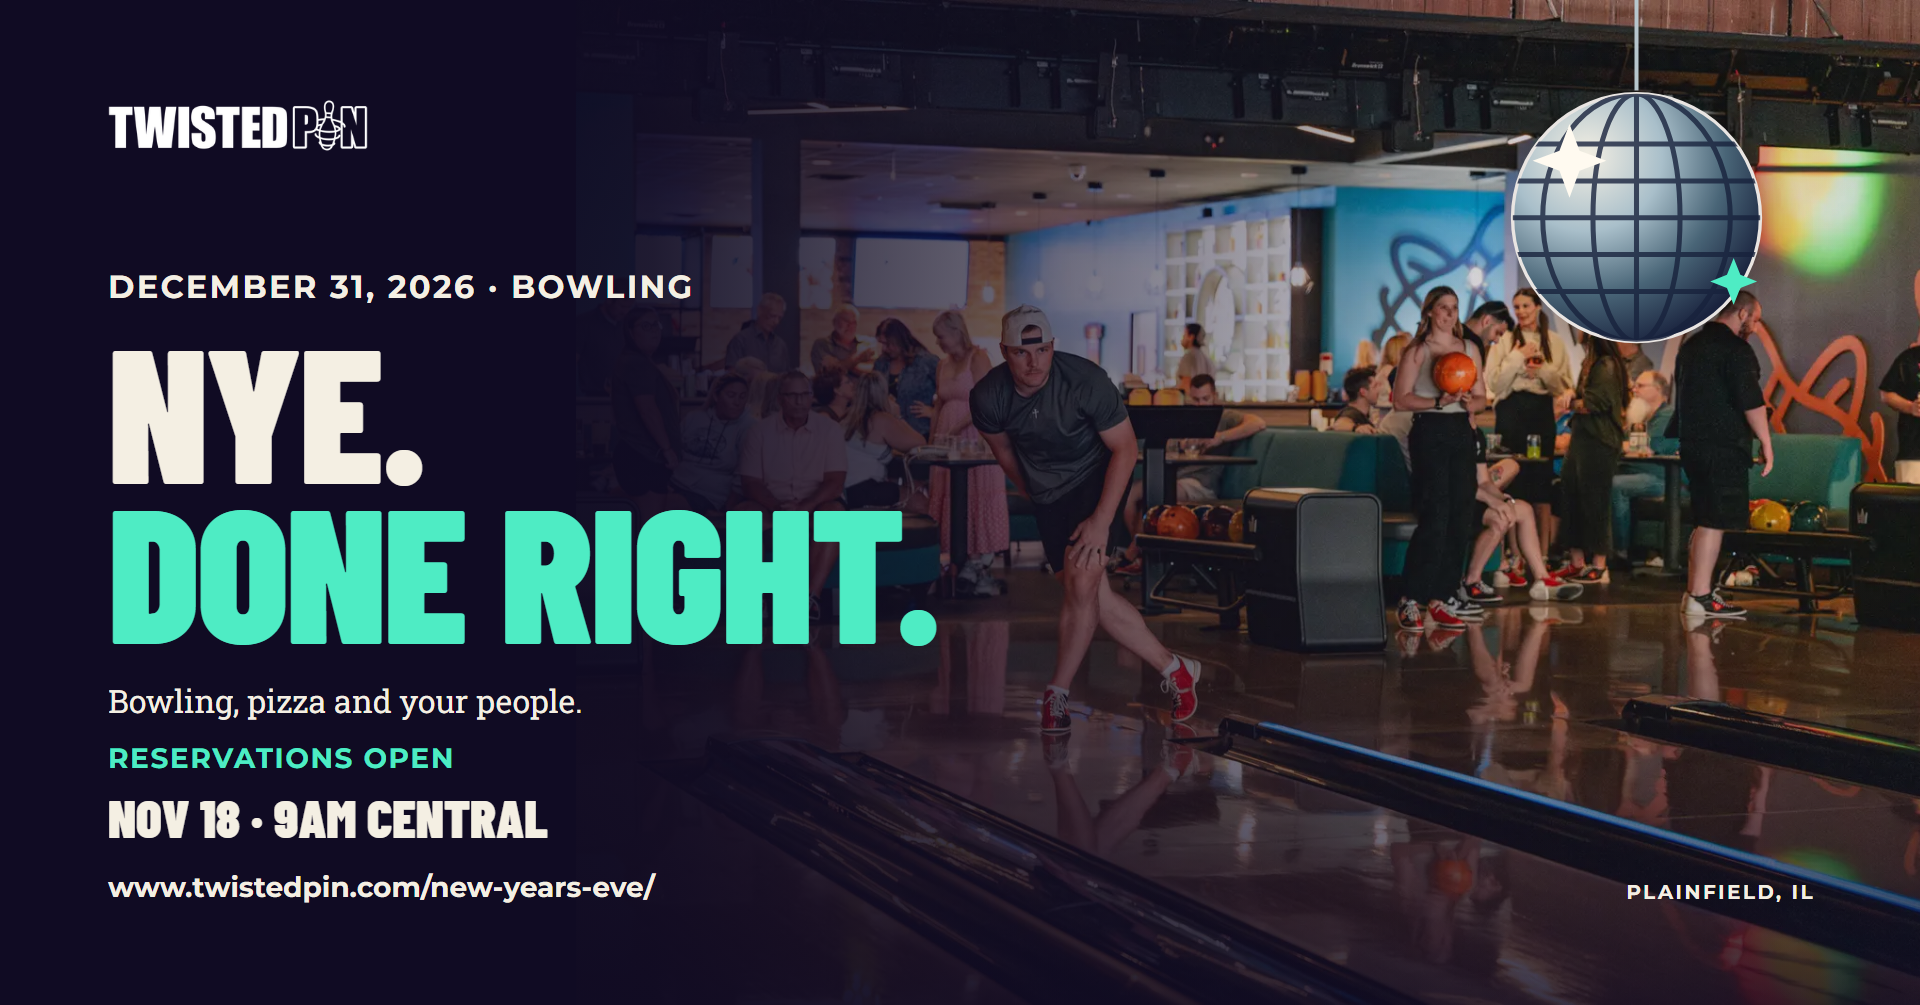
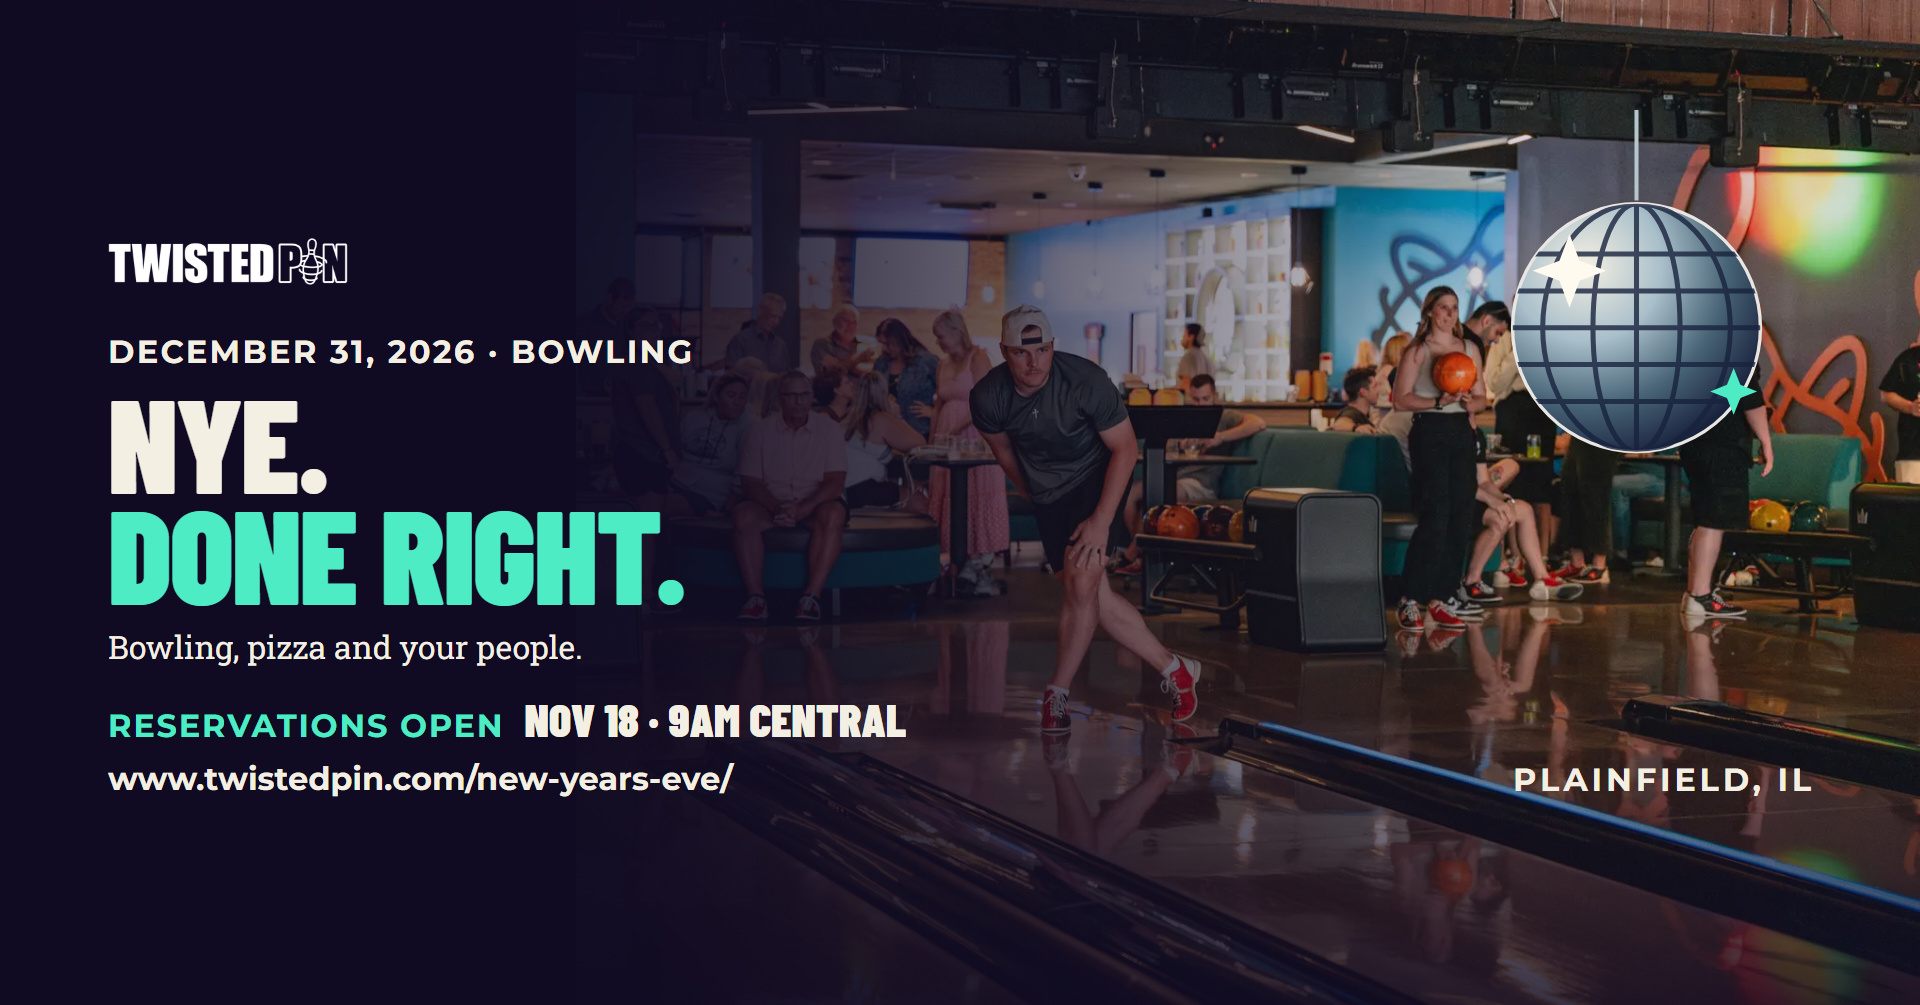
Fix NYE Facebook event cover crop margins

diff --git a/Context/marketing/nye-2026/artwork/campaign.html b/Context/marketing/nye-2026/artwork/campaign.html
@@ -26,6 +26,20 @@
     .detail { margin: 0; font: 900 53px/1.1 Barlow, sans-serif; text-transform: uppercase; }
     .url { margin: 22px 0 0; font: 700 28px/1.3 Montserrat, sans-serif; }
     .place { position: absolute; right: 105px; bottom: 100px; margin: 0; font: 700 20px/1.25 Montserrat, sans-serif; letter-spacing: .12em; }
+    /* Facebook creation-dialog crop observed by Jon: centered ~2.7:1.
+       Keep essential copy inside y=200..805 on this 1920x1005 canvas.
+       These are conservative artwork margins, not a Meta-certified safe zone. */
+    .facebook-cover .logo { top: 210px; width: 240px; }
+    .facebook-cover .mirror { top: 110px; }
+    .facebook-cover .headline { top: 332px; }
+    .facebook-cover .eyebrow { margin-bottom: 14px; }
+    .facebook-cover h1 { font-size: 132px; }
+    .facebook-cover .subhead { margin-top: 16px; }
+    .facebook-cover .action { bottom: 205px; display: grid; grid-template-columns: max-content max-content; gap: 12px 20px; align-items: baseline; }
+    .facebook-cover .status { margin: 0; font-size: 32px; }
+    .facebook-cover .detail { font-size: 46px; }
+    .facebook-cover .url { grid-column: 1 / -1; margin: 0; font-size: 32px; }
+    .facebook-cover .place { bottom: 205px; font-size: 32px; }
     .feed .photo { top: 525px; width: 100%; height: 825px; object-position: 50% 55%; }
     .feed .shade { background: linear-gradient(180deg, #100b23 0%, #100b23 38%, rgba(16,11,35,.05) 55%, rgba(16,11,35,.04) 66%, #100b23 88%); }
     .feed .logo { left: 74px; top: 40px; width: 240px; }

diff --git a/Context/marketing/nye-2026/README.md b/Context/marketing/nye-2026/README.md
@@ -21,6 +21,12 @@ Open [the local review gallery](review.html) for individual images, or use the e
 
 These dimensions are composition choices, not a claim that every placement requires them. Use the portrait feed asset for feed posts; do not rely on an automatic crop of the wide event cover. Use the teaser Google image in an **Update**, then the open image in an **Event**. Publishing-interface crop and overlay previews remain necessary, especially on Meta. The Story leaves generous empty space above and below the important content; this is a house margin, not a certified platform safe zone. Put its link sticker in the clear area below the printed URL and verify the actual overlay preview.
 
+## Facebook event cover correction, October 22
+
+Jon approved creating the Facebook event on November 18 when reservations open. Use `exports/facebook-event-reservations-open.png` for that event; the teaser remains available for pre-opening promotion. Both 1920 x 1005 covers now place all essential copy within a conservative central band, preserving the approved photograph, logo, Mirrorball and wording. Supporting copy stays at 32px or larger. The logo, URL and complete Mirrorball circle survive the centered approximately 2.7:1 crop observed in Jon's Jingle creation-dialog screenshot.
+
+The renderer checks those bounds and writes 600px crop previews into `qa/`. These simulate that one creation-dialog crop; no Facebook event was uploaded, published or scheduled, and they are not a guarantee for every placement. Inspect Facebook's actual reposition preview before saving. Upload the full-size export, not the QA crop. The website share image and the six feed/Story/Google exports are unchanged. Updated copies replace the matching files in the Desktop `NYE 2026` phase folders and its overview image.
+
 ## Timing and factual basis
 
 The teaser runs before **November 18, 2026, 9am Central** (`2026-11-18T15:00:00Z`). It shows the December 31 event date and the sales-opening time, with no party times or prices. Switch to the open version only once reservations have opened; this pack does not schedule or publish anything. Remove time-sensitive creative when it is no longer bookable. Availability and current purchasing rules remain on the reservation page.

diff --git a/Context/history/2026-website-decisions.md b/Context/history/2026-website-decisions.md
@@ -73,6 +73,11 @@ remained empty at revision zero. Regular and birthday journeys showed six and tw
 available times. No time selection, hold, payment or email was created. Receipt
 and screenshots: `.astro/jingle-vip-repeat-live-1792687788836/`. This evidence-only
 successor is retained on the feature branch to avoid another production rebuild.
+## 2026-10-22 - Facebook event cover crop correction
+
+Jon asked to fix the NYE event cover after Jingle's Facebook creation dialog exposed a tighter crop, and confirmed the Facebook event will be created November 18 when reservations open. Keep both 1920 x 1005 phase exports and all approved source artwork/wording; move the logo, headline, opening line, URL and location into a conservative central band, with the full Mirrorball circle visible. Extend the existing local renderer with the observed centered 2.7:1 crop proof and small preview files. This is artwork-only delivery on the feature branch, with no Website deployment, Facebook publication, sales or campaign schedule change.
+
+Verification: both full exports and 600px crop previews pass font, bounds and no-overflow checks plus independent visual review. Essential text stays within y210–800, with the complete Mirrorball circle inside the simulated crop. A Facebook-only template class isolates the existing website share-card renderer. All six feed/Story/Google exports retain their original hashes. Both Desktop phase-folder covers and the overview were replaced and hash-verified; originals, source and crop evidence stay in the project. The actual Facebook upload/reposition preview remains a final publishing check, not claimed tested here.
 
 ## 2026-10-22 - Final NYE copy integration and dedicated share image
 
